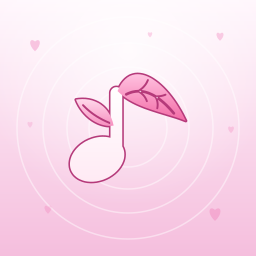
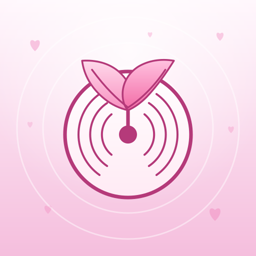
feat(branding): refresh Natune IconPack marks
Replace the old Natune note mark in the nine redrawn icons with the record-and-seedling logo, preserving each palette and motif. Regenerate matching previews and update the pack description.

Changed region(s): [[0.2188, 0.2188, 0.7812, 0.7812]]

diff --git a/README.md b/README.md
@@ -21,9 +21,9 @@ Upstream icon pack: rukamori/IconPack at `950d412`. Forked from that point; the 
 
 - **Six icons replaced with Natune artwork.** The `Id` of each is unchanged, so a user's chosen icon survives the update.
 - **Two new icons:** *Autumn* and *Synthwave*.
-- **Nine icons redrawn for Natune.** Their old artwork still carried the ArchiveTune mark, which is interleaved with the traced art and could not be removed cleanly. Each redraw keeps its original palette and motif and uses the Natune note mark.
+- **Nine icons redrawn for Natune.** Their old artwork still carried the ArchiveTune mark, which is interleaved with the traced art and could not be removed cleanly. Each redraw keeps its original palette and motif and uses the Natune record-and-seedling mark.
 - **Three restored Ids.** Upstream removed *Bricks* (`320974`), *Satoru Gojo* (`539452`) and *Guest Roblox* (`980484`). This fork restores each Id: *Bricks* is a Natune redraw of the upstream icon, and *Infinity* (`539452`) and *Guest* (`980484`) are new designs with no character or brand marks.
-- The Natune note mark is kept within the adaptive-icon safe zone (66 dp) in every icon. It is centred in all but *Guest*, where it sits on the avatar's shirt.
+- The Natune record-and-seedling mark is kept within the adaptive-icon safe zone (66 dp) in every icon. It is centred in all but *Guest*, where it sits on the avatar's shirt.
 - Legacy `pack/` and `xml/` files and the previews of replaced icons were removed. Upstream history is intact.
 - `Submission` pointers were dropped; this fork has no `submissions/` backlog.
 
